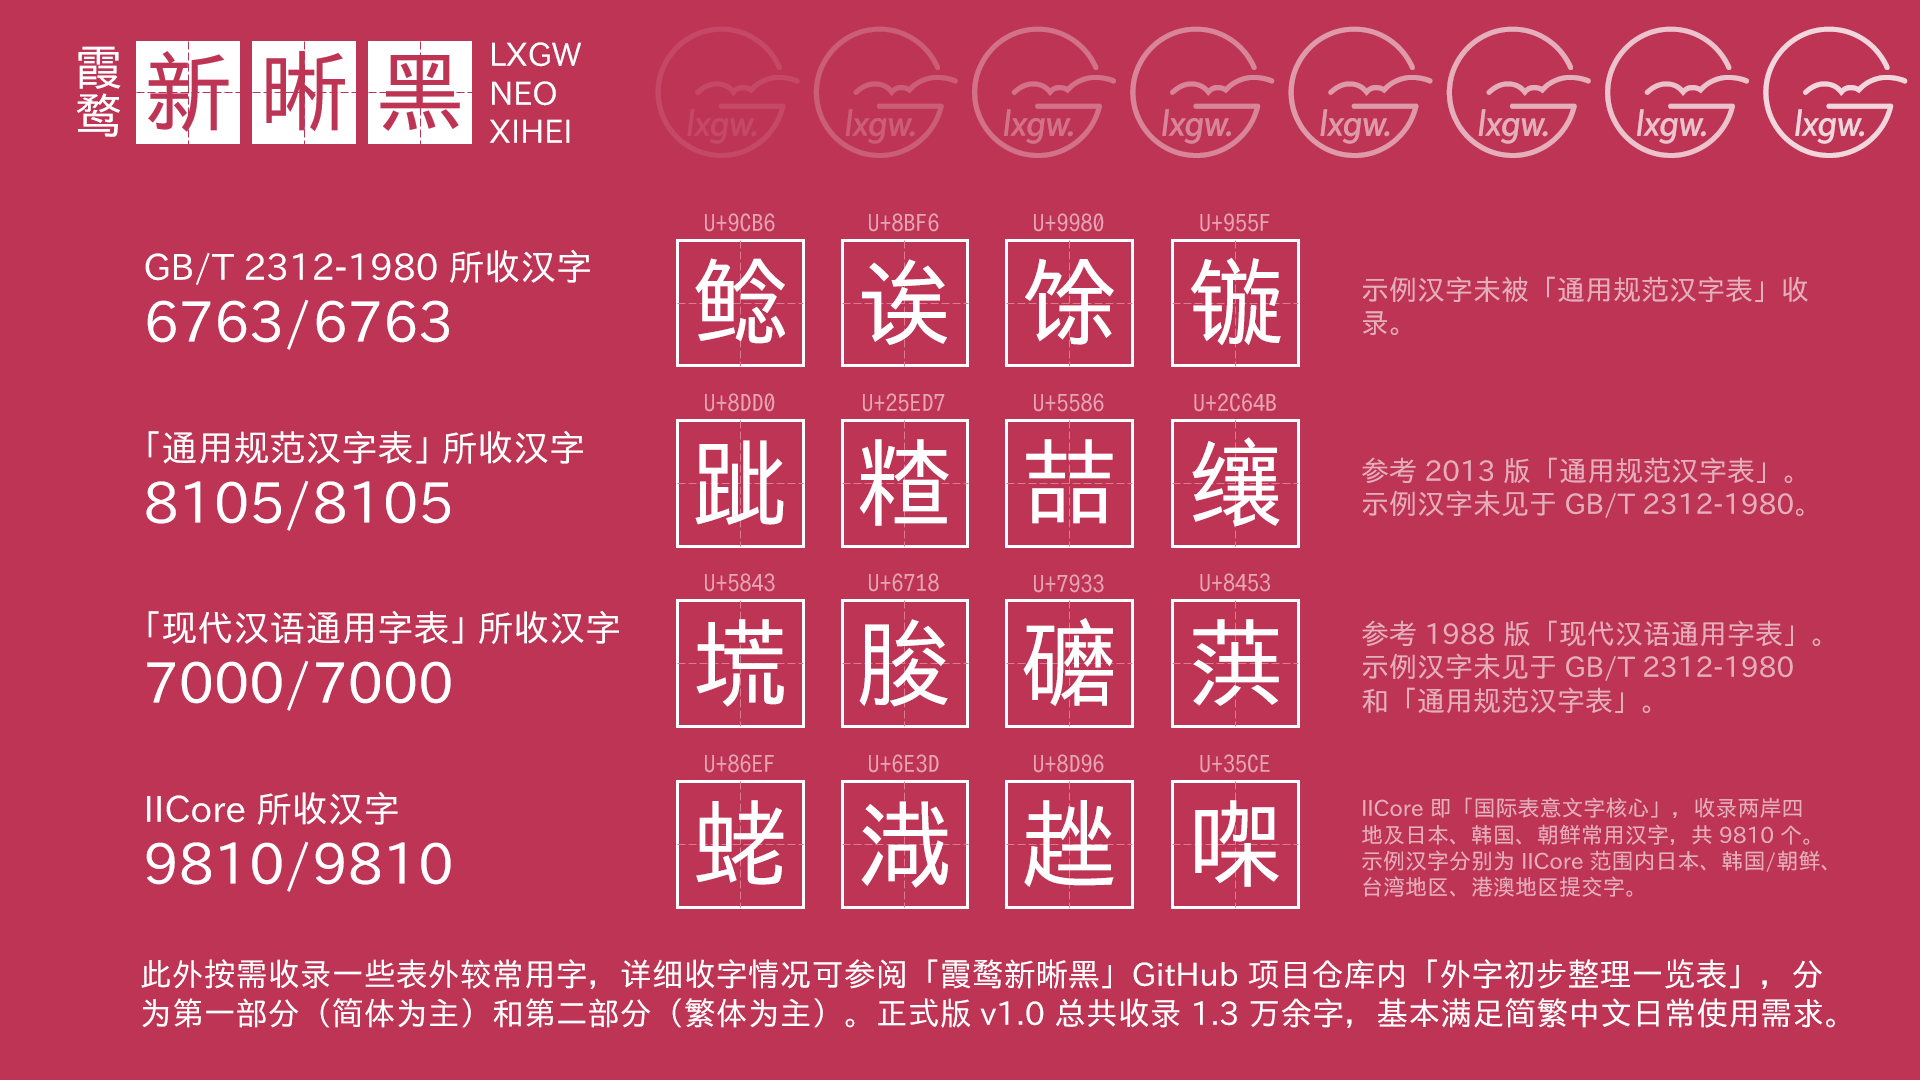
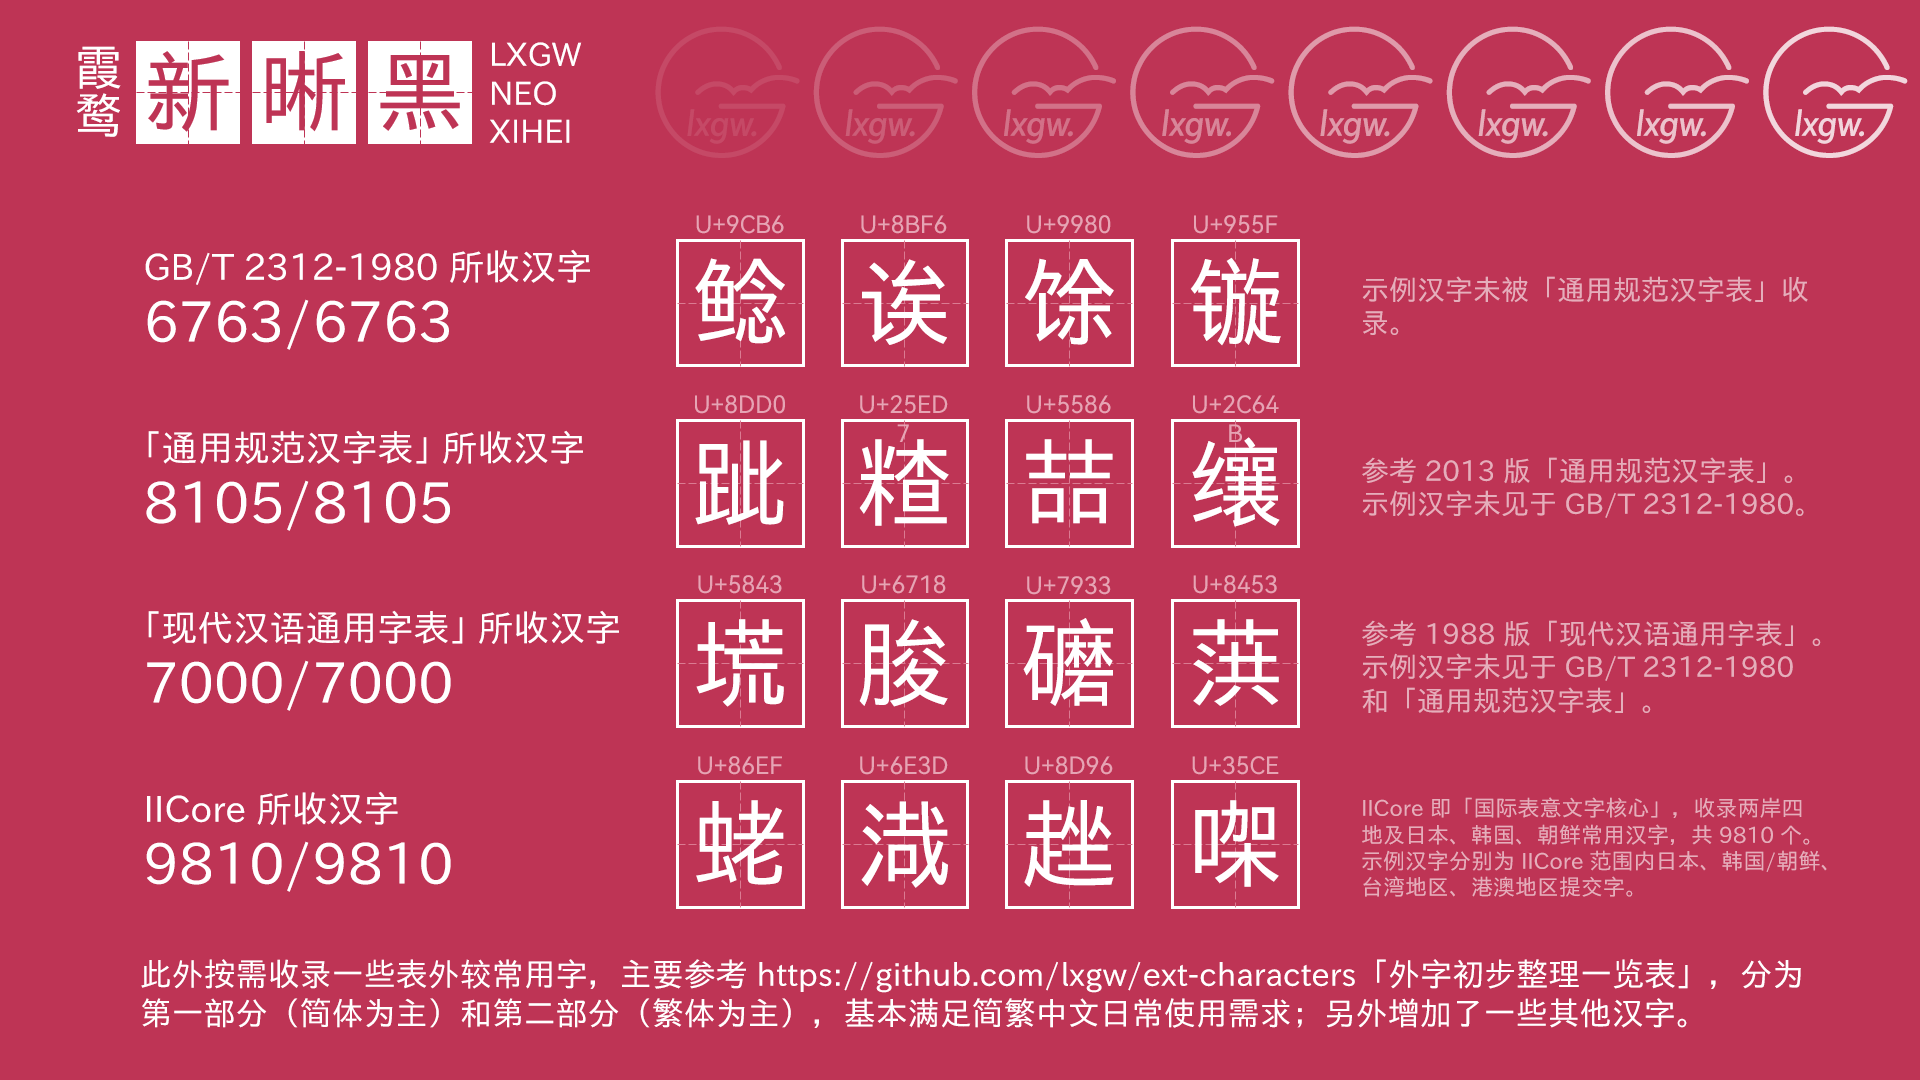
Update v1.100

diff --git a/changelog/20230609.md b/changelog/20230609.md
@@ -1,0 +1,22 @@
+# 霞鹜新晰黑 v1.100 版本更新（2023.06.09）
+
+## 新增字符
+
+### 1. 新增汉字
+
+1. 增加 IPAexGothic 字体中包含的基本区、扩 A 区、兼容区非兼容汉字：
+
+   丂丒丩丮丯乑乢亊亝亰亼仈仐仚仭仱伀伖伷伹佪侅侒侚侫侲侾俒俛俲俿倁倎倐偀偂偗偦偪傓傔傪傱僄僌僐僘僡僲僴儃儖儛儞儵兊兠兤冃冋冐冘冝冣冦冩冭凅凢凬凮凴凾刄刋刔刕刧剏剬劔劜劯劺勀勈勊勌勑匇匤匳匵卂卆厤厰叀叝叴叺吤呍呫呬呰呿咊咜咠咮咷哘哬哯唀唫唹啀啅啇啌啠啽喞喿嗢嗹嘇嘨嘷噐噞噭嚈嚊嚔嚝嚞嚠嚩囎囶圕圡圦圴圷圸坅坆坙坴垉垜垪垬垳埀埖埣埦埶埿堹塉塧塰塲墋墍墏墔墪墫墱墲墸墹壃壍壒壔壗壥壴夅夘奆奛奝奟奣奵妋妛妟妺妼姧娗娧婬婾媋媠媿嫥嫰嬾孁孒孨孯寉寎寖寘寱寽尃尞尠尩尫屟屧屩屰屶岏岟岦岪岶岻岼峐峵峺崕崘崝崫崹嵂嵆嵒嵓嵡嵪嵭嵰嵳嵶嶈嶐嶤嶬嶹巐巑巓巗巤巵帀帒帾幉幎幤幭幮幵庪庬庿廰廱廸廹廽弉弖弜弞弡弣弽彁彇彜彽彾徃徏徢徤徸忇忋忓忔忢忩忯怐怘怢怤怺恊恌恠恷悁悊惈惞惵惷惸愑愙愞愡愬愺愽慁慯慱慴憇憗憥憼懕懝戉戓戞扖扚扻抂抅抙拑拕挃挊挍挐挘挧捁捄捙捥捬捼掔掫掵掽揔揜揥揫揬揵搉搩搯摎摚摝擌擕擶擽攅攩攲敄敧敺斁斄斈斊斵斸斿旉旔旙旹昢昮晈晎晑晣晭暀暃暙暭暼曵曻朁朅朎朖朙朷杁杇杍杔杝杤杦杶枌枛枩枻柀柆柎柗柛柤柧柹柼栁栫栬栭栱桍桒桗桙桛桮桵桺桼桾梍梖梙梚梥梪梫梺梻棃棆棈棊棌棏棔棙棥棭棯棷椃椈椊椌椡椢椣椥椦椨椶椻楆楉楜楤楲楴楺楾楿榁榒榺槀槖槝槞槢槣槩槮槯槴槵槶槹樌樏樔樕樚樛樝樢樮樰樲樴樶樻橅橆橉橎橖橤橳橸橺檃檋檝檡檥檽櫁櫐櫑櫔櫜櫢櫤櫲櫽欋欑欛欟欯欵歊歖歠歬歵殀殩殱殾毇毈毉毟毦毧毮毱氎汢汯汳沗沜泝泩泬泭洀洊洟洤洦洯浘涀涁涖涬淂淈淎淐淕淛淲渞渧渮渹湈湌湏湗湶溂溓溿滊漐漘潒潡潨澑澖澘澟澵濈濔濳濵濹瀀瀇瀊瀺灇灊灋灎灔灮炗烑焃焇焈焏焫煑煠熕熖熮燓爴牋牓牕牗犎犮犱犾狌猒猘猤猧猨猳猽獦獱玅玜玵珱琩琱琹瑇瑍瑫璅璙璢璻瓉瓧瓫瓰瓱瓲瓸瓺甅甎甞甠甤甼畄畆畉畍畐畒畩畭畱畽畾疂疉疌疷疿痆痝痟痬痮瘇瘏瘨癁癈癋癕癨皀皁皃皜皠皡皧皨皯皷皹眗眤眴睘睟睠睲睼瞔瞚瞹矟矠矤矦矪砅砙砡硑硴硺碆碊碝碞碤碪碯碵磆磌磤磦礀礇礛礜礥礮礰祘祹禖禝禴秇秌秔秖秡稊稕稘稛稭稸稾穃穖穝穧穪穵窂窐窹窻窼竌竍竎竏竒竓竕竚竡竢竧竨竰竴竸笂笇笒笧笶笻笽筁筕筭筳筺箑箘箛箞箟箯箵箼篅篊篏篖篗篶簁簎簓簱簳簶籅籊籑籖籘籞籡籭籯籰籵粏粐粔粠粡粨粫粭粶粷糂糘糦糫紒紣紽紾絁絇絈絏絙絚綋綗綟綶緀緂緕緤縨縬縺繝繦繧繵繿纃纉纎纑缻缼缾罇罏罤罧罭罸羂羃羐羗羜羭羮翆翏翣耊耎耡耼聢聦聨聻肙肧肬胅胊胕胘胦胵胻脵脽腟膁膄膅膓膤膰膲膸臖臗臙臛臤臽臿舙舮舼艆艗艜艝艠艢艣芓芲芺苆苢茢茣茰荕荗荢荿莇莍莔菎菐菶菷菻萕萗萪葈葊葏葟葢葥葮葹葼蒁蒅蒦蒭蓎蓙蓜蓧蓱蓺蔕蔛蔤蔲蔾蕀蕋蕏蕑蕚蕡蕫蕯蕽蕿薐薓薝薭薼藇藊藋藘藾蘐蘒蘓蘤蘯蘰蘹虀虁虖虗虵蚇蚉蚑蚘蚫蚳蚸蛁蛕蛗蛣蛦蛬蛼蛽蜋蜑蜙蜟蜺蝃蝑蝱螇螉螧螾蟁蟐蟖蟟蟦蟭蟵蠇蠎蠧蠮衂衘衟衯衵袘袙袠袮袰袵袽袾裓裲褁褜褞褧褷褹襂襅襉襍襢覉覊覐覔覟覰觘觝觧觽訔訡訵訷詅詇詍誐誮誷諐諚諠謌謍謜謟譃譑譔譛譱譶讁讙讝谹谽豅豏豩豼貎貛貤貭貮賍賖贉贎贒趦跈跙跿踆踈踠躘躮躱躳躵躶躻軅軆軣輙輫轊轌轗轜轣辤辧辴辷迊迚迠迯迱迵迻逌逎逧逷遃遉遖遧邌郲郶鄷鄽酖酘酙酛酳醂醎醳醶醼釄釖釚釛釞釟釡釥釬釮釱釶釻釼鈆鈖鈩鈬鈼鉂鉃鉇鉎鉖鉙鉠鉡鉽銉銗銟銿鋀鋋鋎鋓鋠鋧鋷鋻鋿錍錑錝錥錻鍄鍖鍗鍫鍱鍳鎈鎋鎞鎺鏁鏆鏥鏧鏸鐉鐖鐗鐚鐱鐴鐻鑁鑅鑈鑢鑯镹閇閊閍閖閙閠閦閧閴闚阯陏陦隂隚隝隥隯雚雝霔霣霳霶霻靁靃靇靎靕靗靤靪靮靹鞐鞕鞖鞚鞞鞢鞱鞺鞾韈韑韔韘韲韴頄頖頞頣頥頳顇顋顖顦颪颫颰颷颿飂飃飋飰飱飳餈餔餝餤餧餻饀饂饆饎饟饠馣馦馽馿駞駮駲駹駻騚驘髆髐髜髞髠髣髩髱髴鬂鬖鬜鬝鬠鬫鬭鬳鬽魞魣魥魦魫魬魲魳魵魶魹鮏鮖鮗鮧鮬鮱鮲鮴鮹鮻鮾鯆鯎鯏鯑鯘鯣鯥鯮鯯鯲鯳鯸鯺鰀鰔鰖鰘鰙鰚鰝鰢鰪鰰鱁鱆鱊鱏鱐鱓鱛鱜鱩鱪鱫鱮鱰鱵鳦鳫鳰鴋鴑鴗鴘鴪鴲鴾鵆鵇鵈鵊鵙鵢鵣鵤鵩鵫鵳鵶鵼鶍鶙鶫鶽鷆鷇鷏鷠鷣鷧鸍鸙鸜鹻麅麌麛麞麬麭黮鼃鼡鼺齅齓齝齩齭齰齵龗龝𰰨翲藙藡㐂㐆㐬㐮㑨㑪㒒㒵㒼㓇㓛㔟㕝㕞㕣㖦㖨㗅㗚㗴㘅㙊㚑㚖㚙㛏㝡㝢㝫㝬㝵㞍㟁㟢㟨㟴㟽㠀㠯㠶㡀㡜㡡㤗㤚㥯㩮㫖㫗㫪㬜㬢㭭㭷㮇㮈㮍㮤㮶㯃㯍㯰㰏㰦㳃㳒㴑㴞㵤㶚㷀㷔㸅㸿㹠㹦㹨㺃㺔㽗㽵㽷㾮㿉䀹䁘䂓䄅䅈䅏䅣䆴䆿䇦䇮䇳䈇䈎䉤䋆䋖䋝䌂䌫䍃䏮䏰䐈䐗䐜䐢䑓䑛䑶䑺䒑䒳䒾䓔䔈䔍䔥䕃䖝䖸䗥䘏䙁䙥䚡䚯䜌䝤䟽䠖䡄䡎䦰䧧䧺䨄䨩䪼䬻䯂䯊䯒䯨䰗䰠䳄䳑䴇䵷﨎﨏﨑﨓﨔﨟﨡﨣﨤﨧﨨﨩
+
+2. ZERO子 协助增补的汉字：
+
+   乨乬乽亃亇仯伅伵佌佒佨佭侇侞俹俼倇倠倯倲倸偞偳傆傊傋傌傏傐傗傞傟傫傶僀僓僗僟僯僶僼儜儝儢儣儭儮冎凒刣刴剆剢剭剸剼劎劖勆勜勯匘卛厃吂哤哫哴哾唅唈唊唌唍啈啒啘啨啳嗃嗘嘃嘝嘳嘼噅噋噑噧噮噿嚂嚋嚍嚧嚫嚵囄囇囋圚圿坁坃坱坹坾垁埉埐埛埢埥埬埲埾堁堦堫堬堶塷墆墢墤墥墵墷墿壀壈壉壏壝壧奱妎妠妵妶姎姕姖姟姲姾娂娋娏娢娻娽娾婃婇婎婐婔婡婲媉媊媎媏媘嫅嫞嫧嫶嫾嬁嬂嬇嬒嬕嬦嬧嬫嬮嬼孄孆孡孮孲孾寙寠寪岅岋岤岮岲峑峖峸崳嵃嵕嵠嵢嵣嵥嵦嵨嵷嶑嶜嶩嶯嶱嶾巊帄幏幓幜幠幩幯幱廧廮廲弰彃彋彍彏彚彶徖徟徺徻忂忊忦忶怇怉怬怰恈恗恞恮恲悏悷惾愌愘愝愪愵慀慃慉慖慲慹慺憈憞憢憦憳憴憸憻懀懅懎懏懓懚懠懢懤懧懭懰戃戄戨戵戺扏扝扴抎抐抰拀挅挆挔挗挮挳捖捛捝捰捸掁掅掶揁搎搤搳摍摕摗摡摥摾撀撌撔撛撜撨撶擃擑擙擪擫擳攊攋攎攡攦敤敱敳敼斍斱斴斺旘昅昛昸晇晜晠晼暏暛暟暡暬暷暽曊曍曎曏曥曪曫曭曮朜朡朹朼朾杬枀枎柂柍栙栧桱梒梕棛棜棞棢椂椩椮椯椾楁楃楇楌榏榚榞榢榤榶榽槂槒槡槦槷槸樆樍樎樐樠樤橃橔橨橯橰檂檅檈檘檼櫅櫎櫏櫖櫴欃欇欔欕欴歂歈歗歫殌殎殏殔殜殥殨殬毃氀汃汦沴泈泲洝洠洰浗浝涱淉淓渄湕湥湷湹溑溔溤溩溭溰溾滀滐滒滭滵滽漇漒漙漡潐澋澕澢澰濖濢濦濧濭瀄瀐瀙瀢瀳瀴灓灙炍炧炨炲炴炾烄烐烗焍焒焥焲焳焴焹煡煯煱煹煻熂熆熑熓熚熡熩熭熽燌燑燝燣燤燰燽爃爈爏爜爠爣爧牃牄牅牏牔牜牬牭牼犈犉犔犙犜犝犿狏狖狵狿猅猌猍猏猚猣猼獂獈獊獋獔獖獜獞獟獧獩獹玈玐玣玸珆珓珘珴珿琑琜琧琽瑎瑐瑘瑡瑦瑻瑼璌璍璑璛璝璯璶璼璾瓂瓋瓎瓐瓑瓡瓵甉甊甐甖畡疄癛皉皏皒皗皘皟皢皣皥皳皽盶眂眃眅眏眕眖眝眱睋睕睙睭睮睶睷瞈瞊瞝瞦瞮瞱瞴瞺矃矉矌矑矕矖矘矡砎砐砤硂硟硡硥硹碂碅碢碦磄磇磍磒磗磛磥磩磭磱磼礂礋礍礔礗礚礯礸礹祄祡祩祱祴祶禂禇禞禣禨禬禯禶秐秮秼稏稯稴穊穕穘穛穬穲穳窚窤窧竤竱竳笀笟筨箂箌篬簤籢粆粚粣粻糋糑糩糭糮糽紪紸紻絑絟絯絾綅綊綐綔綩緅緐緰緵緺緽緾縓縔縖縘縜縪縰繏繗繥繨繬繷纅纙罆罛罼羠羦羪羵羷翢翪翶翿耓耛耟耫耺耾聄聅聗聙聠聬聭肍胏胮脙脠脡脥腂腃腛腜膉膌膎膧膭膮膯膱膴膷膹臄臇臎臞臯臹舽舿艐艓艖艛艡艥艩艬菄蒒蓤蔧蔪蔶薵虠虰蚔蚷蚿蛖蛢蛪蛵蛷蛿蜠蜧蜪蜯蜳蜹蜼蝁蝔蝫蝬蝳螊螐螕螘螛螝螡螥螩蟙蟡蟤蟰蟱蟺蟽蠉蠌蠙蠦蠩蠳蠷衏衐衭衱衸袉袕袨袶裌裞裪裭裶裷褋褍褗褠褨褬褺襐襑襓襔襗襘襛襨襵襸襹襼覕覱覴觗觙觢觩觮觰觹觻訅訬訯訰訿詃詋誁誏誔誙誛誝誳誴誺諕諣諩諯謆謉謑謒謞謧謱謲謴謺譈譕譝譡譣譨譵譻讈讉讘讛豀豒豘豥豯豲豽貁貈貕貖貗貜貦賆賋賩賶賹贂赯跓跠跥跧跭踀踁踃踓踙踳踷踻蹝蹪蹱蹳蹸躃躆躣躧躩躴躼躽軁軂軄軇軘軜軦軩軮軳軴軿輁輆輎輐輖輠輤輲轒轕轖轛轞轥辝辳邒邧郀郂郍郒郮鄊鄟鄪酁酫醀醏醘醝醦醻釫鈨鈭鈶鉁鉒銏銵鋜鋞鋡鋽鋾錭錱錿鍐鍞鍴鎆鎎鎑鎕鎟鎨鏀鏉鏎鏒鏔鏚鐀鐌鐛鐞鐟鐪鐬鐭鐼鑆鑇鑉鑍鑏鑧鑺閄閸陓陗陫陮陼陿隁隒隢隦隫霒霕霴霵霼靅鞝鞟鞵鞸鞻鞼韒韕韝韠頝顂顅顜顩顪颽飺飻餦饖饙饚饡馠馡馩馪馺駗駚駩駯駳駴駾騀騆騋騛騝騟騣騩騺驆驇驉驋驙驞骩骲骴骻骿髇髉髊髗髝髾鬵鬺魗魪魭鮌鮢鮩鮵鮷鮼鯄鯅鯟鯠鯼鰋鰎鰿鱄鱋鱌鱞鱦鱳鳺鴍鴓鴤鴥鴮鵍鵛鵦鵻鶈鶎鶮鶰鶳鶷鷌鷒鷛鷜鷨鷱鷻鸎鹶鹷麣麳麶麷黈黗黦黸鼖鼧鼵鼸齈齥齱齸龣龤龫龬龴龵龶龷龸龹龺龻鿁鿂
+
+3. 跟随「外字初步整理一览表」第 02 次修订：
+
+   㐷䒤䓕亖佀凨凬呺妜妡姀姛摐朤枔灀荌阰騉𤰉𨞪𨥈𪭢𫘥𫜷𬃀𬘢𮰔𮴸𮷧
+
+### 2. 新增其他字符
+
+ʰʱʲʳʴʵʶʷʸˀˁˍˎˏ˒˓˔˕˖˟ˠˡˢˣˬ˷˺˽ᴬᴮᴰᴱᴳᴴᴵᴶᴷᴸᴹᴺᴼᴾᴿᵀᵁᵂᵃᵄᵅᵇᵈᵉᵊᵍᵏᵐᵑᵒᵓᵖᵗᵘᵚᵛᵝᵢᵣᵤᵥᵦᶜᶞᶠᶣᶦᶫᶰᶴᶸᶺᶻᶿẐẑẙ‧‵‶⁀⁄ⁱ⁺⁻⁼⁽⁾ⁿ₊₋₌₍₎ₐₑₒₓₕₖₗₘₙₚₛₜ™◌ⱱⱼⱽ⸻〚〛ㄮㄯㆠㆡㆢㆣㆤㆥㆦㆧㆨㆩㆪㆫㆬㆭㆮㆯㆰㆱㆲㆳㆴㆵㆶㆷㆸㆹㆺㆻㆼㆽㆾㆿꞎꞵꟹ︴﹏
+

diff --git a/README.md b/README.md
@@ -36,6 +36,8 @@ A Simplified Chinese sans-serif font derived from IPAex Gothic.<br>
 
 以上两部分字汇共计 1.3 万余字，可基本满足简繁日常用字的显示需要。
 
+除此之外，包含了原始授权字体（IPAexGothic）所收基本区、扩展 A 区汉字以及兼容汉字区的非兼容汉字，并增加了基本区的部分其他汉字。目前本字体所支持的汉字约为 1.7 万字。
+
 ### 更新记录
 历史版本的发行记录，请在 [Releases](https://github.com/lxgw/LxgwNeoXiHei/releases) 查看。文字版本的更新记录 `HISTORY.MD` 不再维护，敬请谅解。
 

diff --git a/documentation/ext_characters_preliminary_2.md b/documentation/ext_characters_preliminary_2.md
@@ -1,1 +1,3 @@
-本字表现已移至：https://github.com/lxgw/ext-characters/blob/main/tables/ext_characters_table_2.md
+「繁异体及其他外字初步整理一览表」现已移至：https://github.com/lxgw/ext-characters/blob/main/tables/ext_characters_table_2.md
+
+自 v1.100 版本开始，「霞鹜新晰黑」的收字增字将不再与此字表看齐。

diff --git a/documentation/ext_characters_preliminary.md b/documentation/ext_characters_preliminary.md
@@ -1,1 +1,3 @@
-本字表现已移至：https://github.com/lxgw/ext-characters/blob/main/tables/ext_characters_table_1.md
+「外字初步整理一览表」现已移至：https://github.com/lxgw/ext-characters/blob/main/tables/ext_characters_table_1.md
+
+自 v1.100 版本开始，「霞鹜新晰黑」的收字增字将不再与此字表看齐。
